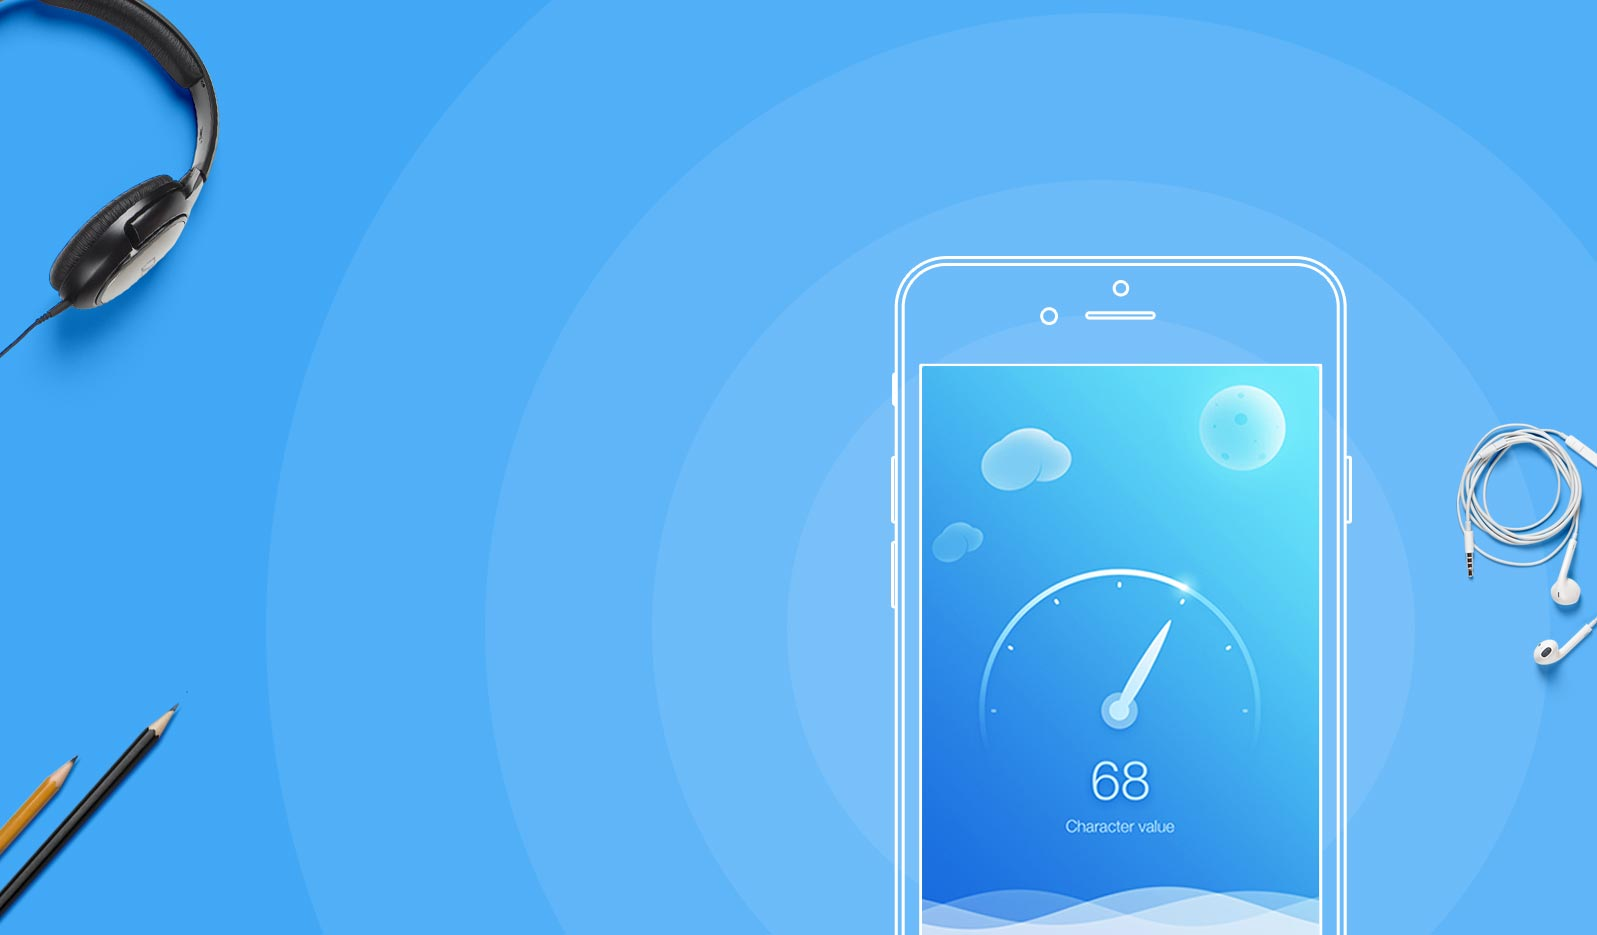
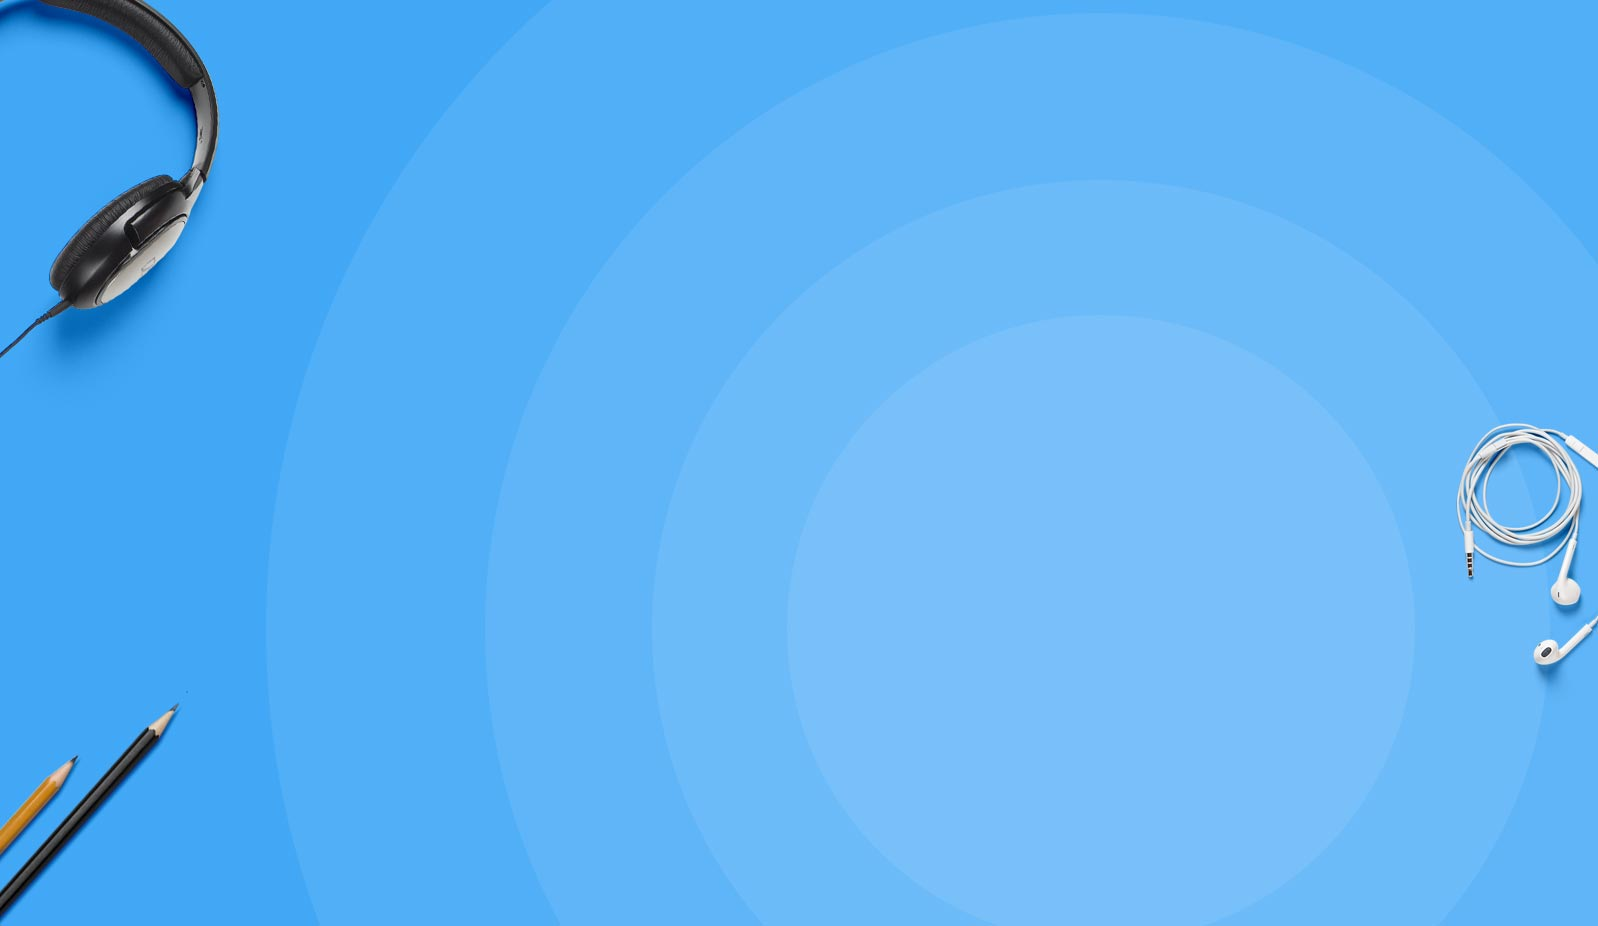
list_1/2/3

diff --git a/src/styles/main.scss b/src/styles/main.scss
@@ -47,6 +47,7 @@ body{
     font-family: $raleway;
     line-height: 1.8571rem;
     color: $text;
+    font-weight: 500;
 }
 .wrap{
     max-width: 1170px;
@@ -60,17 +61,17 @@ body{
     display: flex;
     justify-content: space-between;
     align-items: center;
-    padding: 45px 0px 23px 0;
+    padding: 25px 15px 28px 15px;
     border-bottom: 1px solid $white;
     &__logo{
         display: block;
         width: 168px;
         height: 51px;
         background: url(../img/svg/logo.svg) no-repeat;
-        margin-left: 20px;
+        margin-left: 30px;
     }
     &_bg{
-        background: url(../img/main-bg.jpg) no-repeat center center / cover;
+        background: url(../img/bg1.jpg) no-repeat center center / cover;
     }
     &-list{
         list-style-type: none;
@@ -88,18 +89,38 @@ body{
             font-weight: 600;
             font-size: 1.2143rem;
             padding: 15px 22px 15px 32px;
+            transition: .3s;
             &:focus, &:hover{
                 border-radius: 10px;
                 background-color: $btn-login;
+            }
+            &_login{
+                border-radius: 10px;
+                background-color: $btn-login;
+                &:focus, &:hover{
+                    border-radius: 10px;
+                    box-shadow: -10px -10px 15px  inset $white;
+                }
             }
         }
     }
 }
 .start-block{
-    padding: 150px 0 250px 0;
+    padding: 209px 0 0 0;
+    display: flex;
+    justify-content: space-between;
+    &__img{
+        display: block;
+        background-image: url(../img/img_phone.png);
+        background-size: contain ;
+        background-repeat: no-repeat;
+        width: 481px;
+        height: 694px;
+    }
 }
 .block-company{
-    max-width: 550px;
+    flex-basis: 50%;
+    margin-top: 100px;
     &__title{
         color: $white;
         font-family: $museo;
@@ -113,7 +134,180 @@ body{
         color: $white;
         font-weight: 500;
         font-size: 1.8571rem;
-        margin: 33px 0;
+        margin: 30px 0;
         line-height: 2.8571rem;
+        padding-bottom: 60px;
+    }
+    a{
+        text-decoration: none;
+        font-weight: 600;
+        font-size: 20px;
+    }
+    &__google{
+        font-size: 20px;
+        background-color: $white;
+        color: #3e3e3e;
+        border-radius: 10px;
+        padding: 28px 36px 30px 81px;
+        position: relative;
+        &::before{
+            content: '';
+            background: url(../img/google_play.png) no-repeat;
+            display: block;
+            width: 30px;
+            height: 32px;
+            position: absolute;
+            top: 30%;
+            left: 15%;
+        }
+    }
+    &__more{
+        margin-left: 22px;
+        border-radius: 10px;
+        padding: 28px 65px 30px 65px;
+        color: $white;
+        background: $btn-more;/*градиент через bg  */
+        text-align: center;
+    }
+}
+.main-title{
+    font-family: $roboto;
+    font-size: 24px;
+    color: $title;
+    letter-spacing: 3px;
+    text-transform: uppercase;
+    line-height: 33px;
+    text-align: center;
+    margin-bottom: 25px;
+    span{
+        display: block;
+        text-transform: initial;
+        color: $text;
+        letter-spacing: 0.60px;
+        font-size: 18px;
+        font-weight: 400;
+
+    }
+    &::after{
+        content: '';
+        display: block;
+        border-bottom: 2px solid #2eb0ec;
+        width: 30px;
+        margin: 15px auto 100px;
+    }
+}
+.page-services{
+    background-color: $white;
+    background-size: cover;
+    padding: 90px 0 170px;
+}
+.page-services-list{
+    display: flex;
+    justify-content: space-around;
+}
+.page-services-item{
+    flex-basis: 29%;
+    text-align: center;
+    &__title{
+        color: $title;
+        font-weight: 700;
+        font-size: 18px;
+        margin: 28px 0;
+    }
+    &_web{
+        display: block;
+        background: url(../img/icon-web.png) no-repeat;
+        width: 105px;
+        height: 106px;
+        margin: 0 auto;
+    }
+    &_foto{
+        display: block;
+        background: url(../img/icon-photo.png) no-repeat;
+        width: 105px;
+        height: 106px;
+        margin: 0 auto 0; 
+    }
+    &_vector{
+        display: block;
+        background: url(../img/Layer.png) no-repeat;
+        width: 105px;
+        height: 106px;
+        margin: 0 auto;
+    }
+    &__text{
+        letter-spacing: 0.7px;
+    }
+}
+.features{
+    background: url(../img/bg-3.jpg) no-repeat center center / cover;
+    position: relative;
+    padding: 160px 0 400px;
+    &__img{
+        position: absolute;
+        left: 0;
+        bottom: 50%; 
+        transform: translateY(50%);
+        background-image: url(../img/screen.png);
+        background-repeat: no-repeat;
+        background-size: contain;
+        z-index: 2;
+        width: 665px;
+        height: 562px;
+    }
+    &_style{
+        display: flex;
+        justify-content: flex-end;
+    }
+    &__block{
+        flex-basis: 60%;
+        &_column{
+            max-width: 600px;
+        }
+        &__great{
+            font-weight: 600;
+            font-size: 22px;
+            opacity: 0.4;
+            margin-bottom: 20px;
+        }
+        &__title{
+            font-weight: 600;
+            font-size: 32px;
+            color: $title;
+            line-height: 30px;
+            margin-bottom: 25px;
+        }
+        &__subtitle{
+            font-size: 20px;
+            line-height: 30px;
+            margin-bottom: 60px;
+        }
+        &__list{
+            list-style-type: none;
+            &>li{
+                margin-bottom: 12px;
+                margin-left: 40px;
+            }
+        }
+        &__btn{
+            margin-top: 40px;
+            text-align: center;
+            border: none;
+            background-color: $btn-main;
+            width: 150px;
+            height: 50px;
+            border-radius: 25px;
+            font-weight: 700;
+            letter-spacing: 1.1px;
+            transition: .3s;
+            a{
+                text-decoration: none;
+                color: $white;
+                text-transform: uppercase;
+            }
+            &:focus, &:hover{
+                box-shadow: 10px 15px 15px inset $btn-login;
+            }
+        }
     }
 }

diff --git a/src/views/index.html b/src/views/index.html
@@ -38,7 +38,7 @@
                             <li class="header-list__item"><a class="header-list__link" href="">portfolio </a> </li>
                             <li class="header-list__item"><a class="header-list__link" href="">blog</a></li>
                             <li class="header-list__item"><a class="header-list__link" href="">contact us</a> </li>
-                            <li class="header-list__item"><a class="header-list__link" href="">Login </a></li>
+                            <li class="header-list__item"><a class="header-list__link header-list__link_login" href="">Login </a></li>
                         </ul>
                     </div>
                 </div>
@@ -48,12 +48,56 @@
                     <div class="block-company">
                         <h1 class="block-company__title">Flat  +  free  =  Flaby</h1>
                         <p class="block-company__text">A Modern Flat design corporate template for free download with all great features and trendy look.</p>
-                        <a class="block-company__link" href="">Google Store</a>
+                        <a class="block-company__google" href="">Google Store</a>
                         <a class="block-company__more" href="">Learn More</a>
                     </div>
+                    <div class="start-block__img"></div>
                 </div>
             </div>    
         </div>
+        <div class="wrap">
+            <div class="page-services">
+                <h2 class="main-title"><span>Welcome to</span>our services</h2>
+                <div class="page-services-list">
+                    <div class="page-services-item">
+                        <div class="page-services-item_web"></div>
+                        <h3 class="page-services-item__title">Web Development</h3>
+                        <p class="page-services-item__text">There are many variations of passages of Lorem Ipsum available,  the majorityalteration make difficult</p>
+                    </div>
+                    <div class="page-services-item">
+                        <div class="page-services-item_foto"></div>
+                        <h3 class="page-services-item__title">Photography</h3>
+                        <p class="page-services-item__text">There are many variations of passages of Lorem Ipsum available,  the majorityalteration make difficult</p>
+                    </div>
+                    <div class="page-services-item">
+                        <div class="page-services-item_vector"></div>
+                        <h3 class="page-services-item__title">Vector Artist</h3>
+                        <p class="page-services-item__text">There are many variations of passages of Lorem Ipsum available,  the majorityalteration make difficult</p>
+                    </div>
+                </div>
+            </div>
+        </div>
+            <div class="features">
+                <div class="wrap">
+                    <div class="features_style">
+                        <div class="features__img"> </div>
+                        <div class="features__block">
+                            <div class="features__block_column">
+                                <p class="features__block__great">We have great features with</p>
+                                <h2 class="features__block__title">Unlimited Customization Features</h2>
+                                <p class="features__block__subtitle">There are many variations of passages of Lorem Ipsum available,  the majorityalteration make difficult</p>
+                                <ul class="features__block__list">
+                                    <li>More wordpress featrures with great responsive design.</li>
+                                    <li>Corporate flat design with necessary elements.</li>
+                                    <li>Free vector shape and mockup by great designer.</li>
+                                    <li>Full one page flat and modern trend following goods.</li>
+                                </ul>
+                                <button class="features__block__btn"><a href="">Read More</a></button>
+                            </div>
+                        </div>
+                    </div>
+                </div>
+            </div>
      <script src="../js/main.js"></script>
     </body>
 </html>
